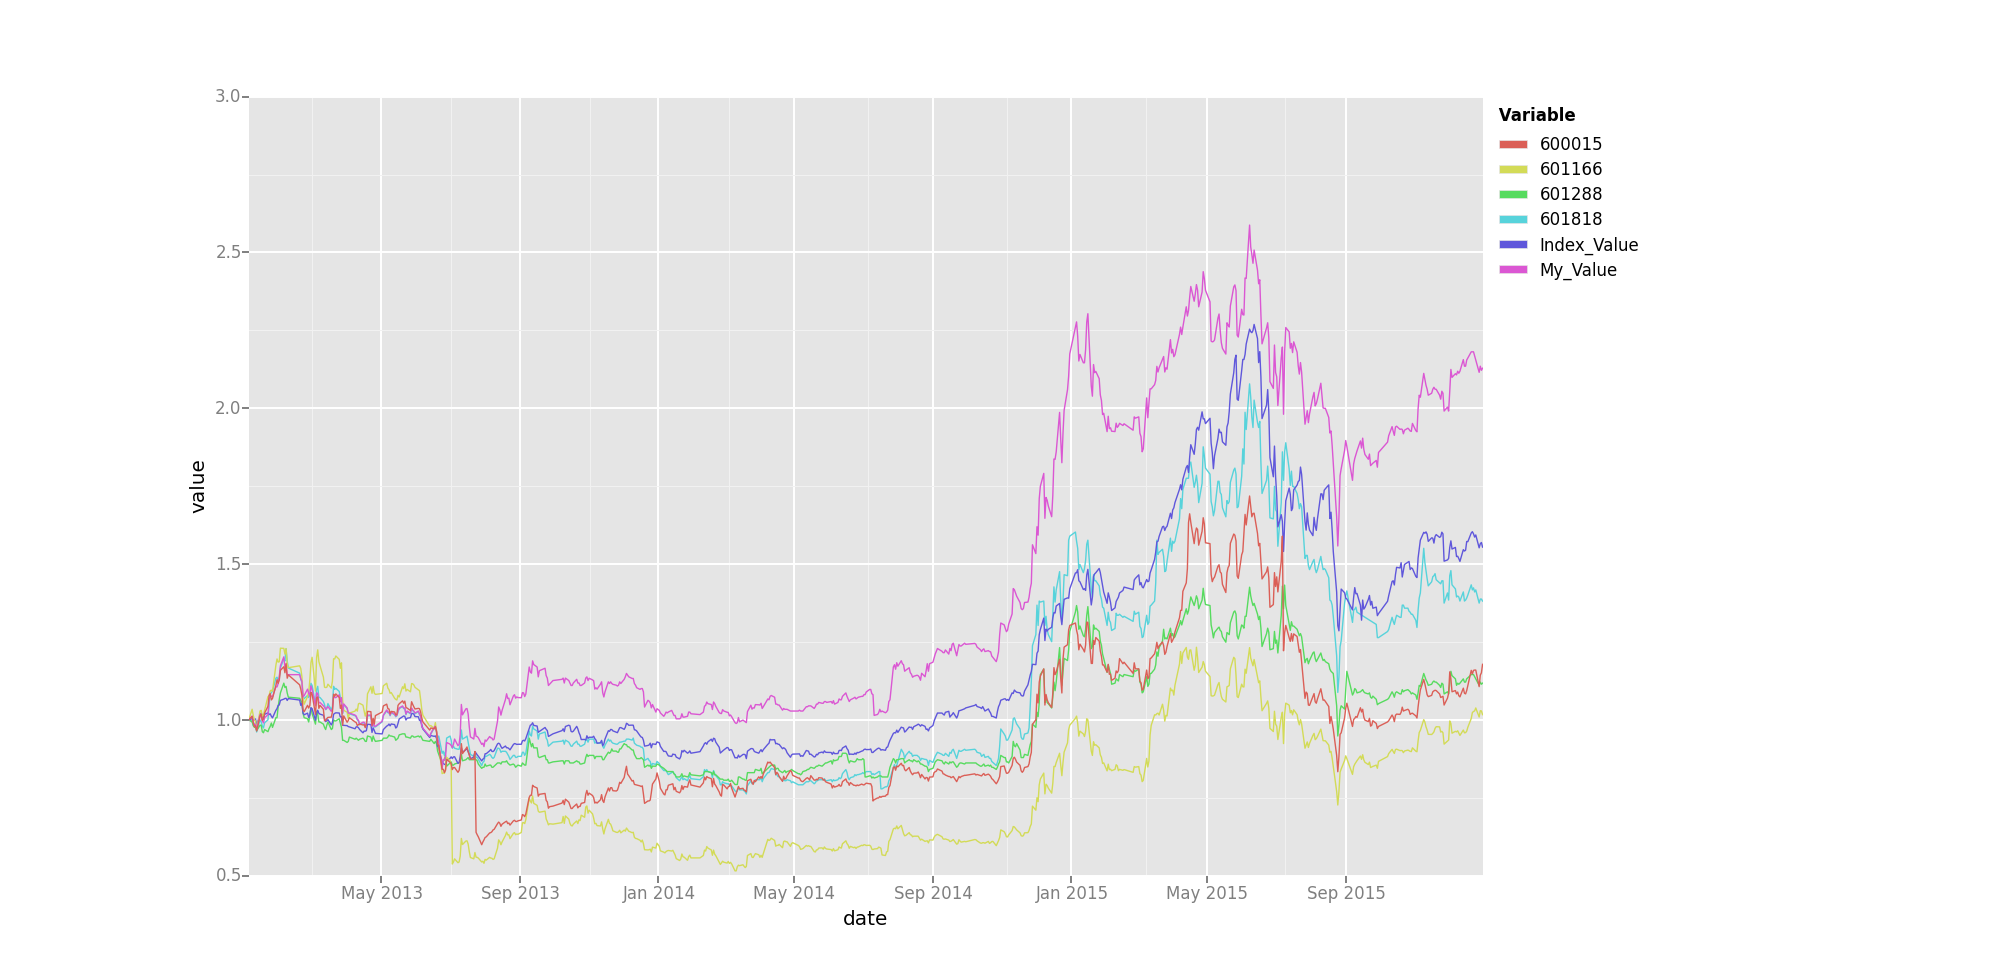
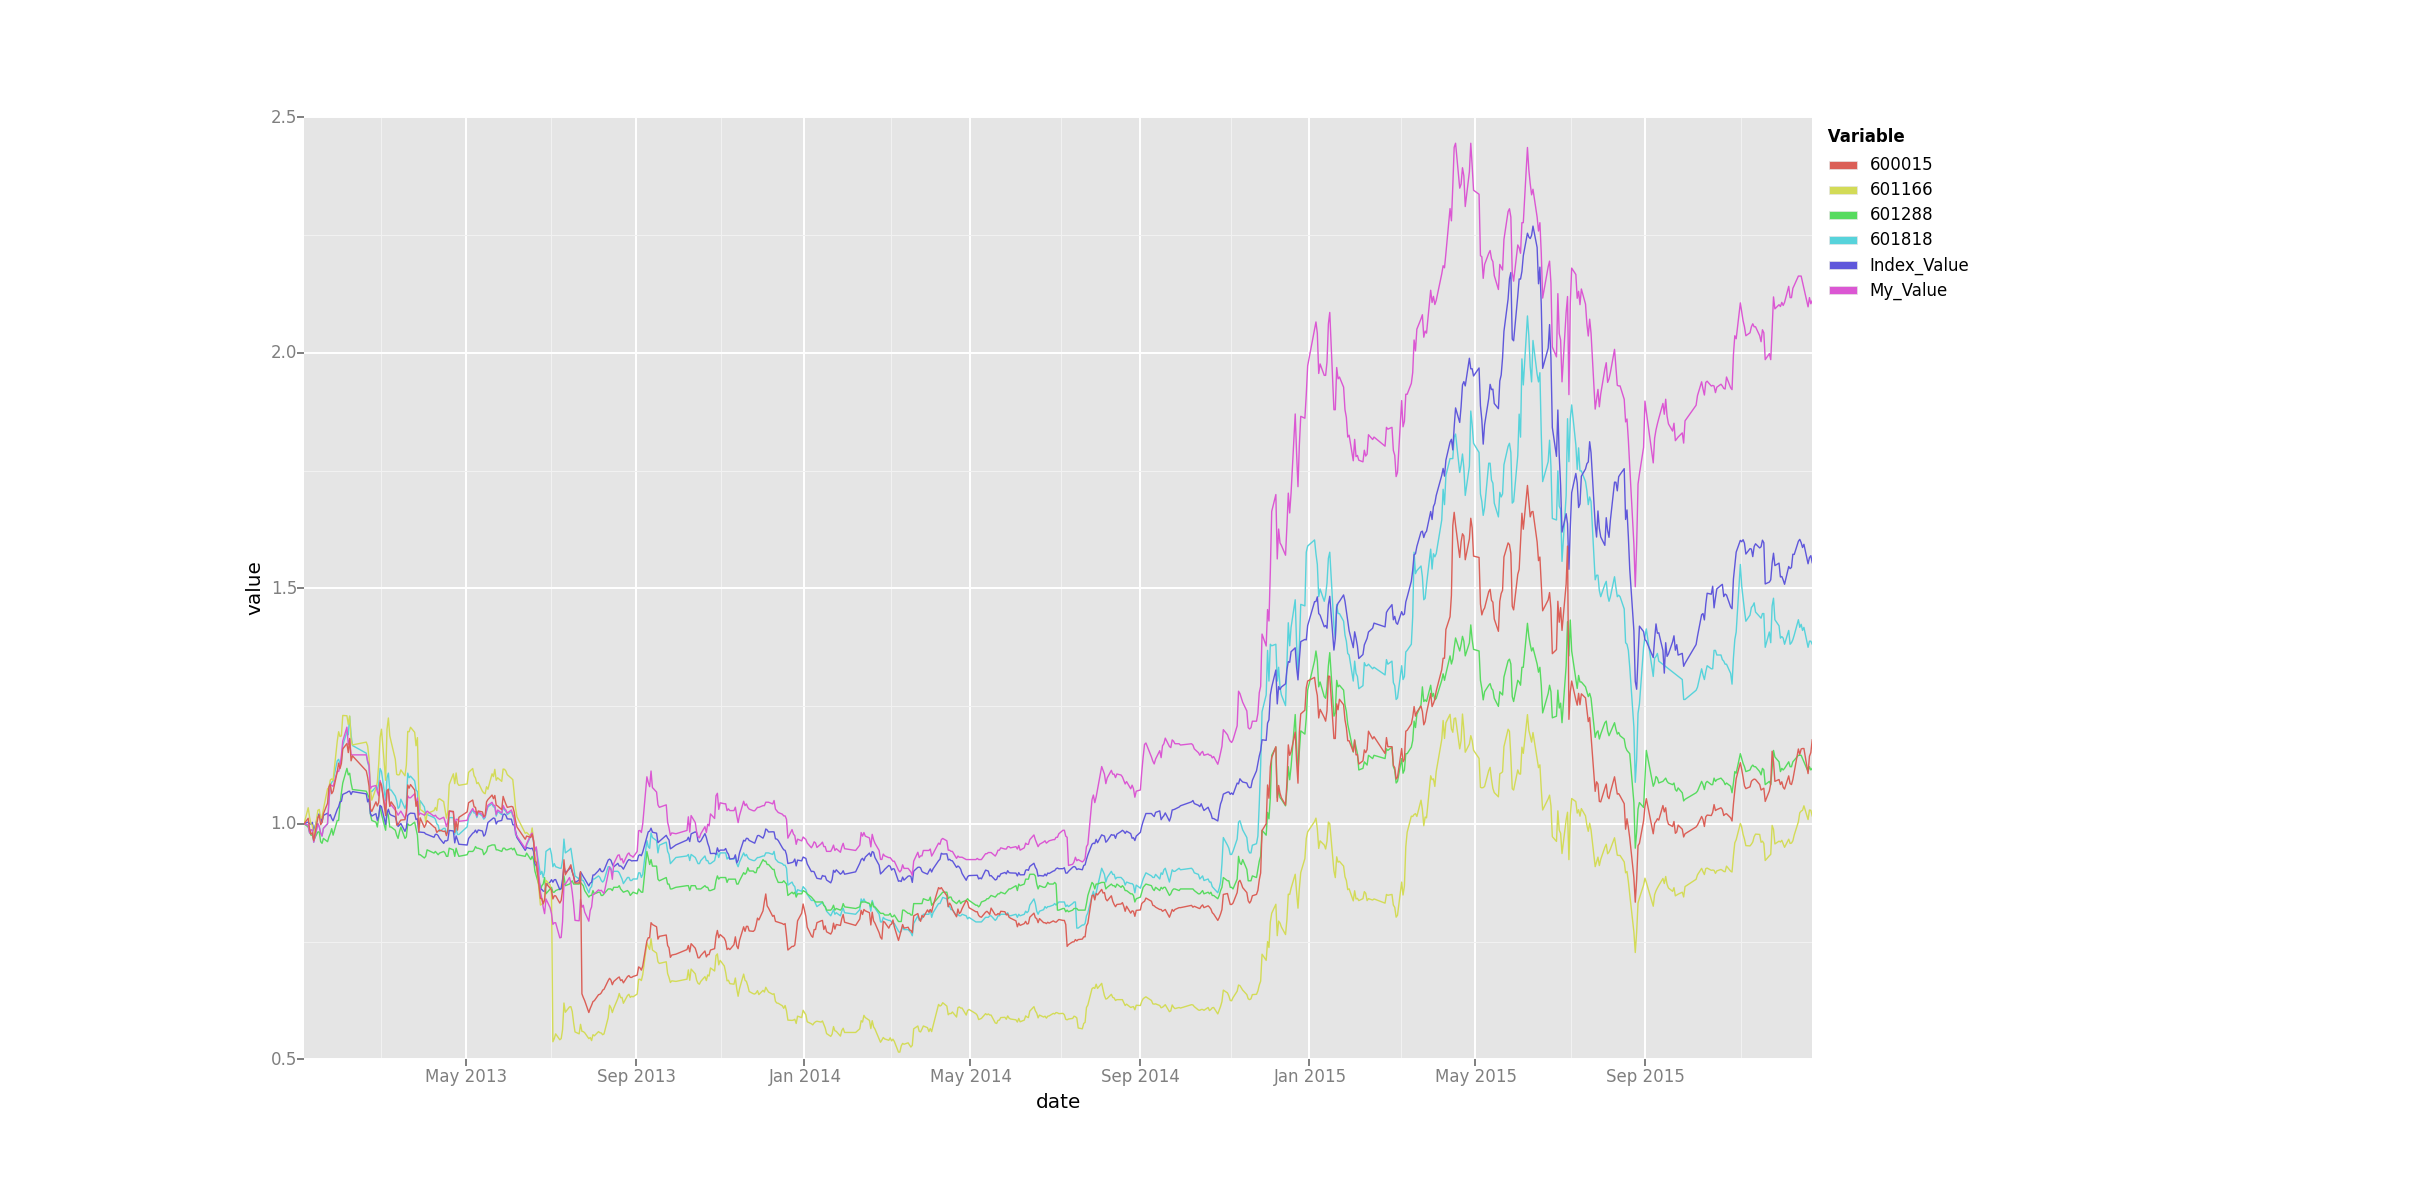
update

diff --git a/roll.py b/roll.py
@@ -3,7 +3,7 @@ import tushare as ts
 import pandas as pd
 import math
 from ggplot import *
-import datetime
+import time
 
 banks = ["600000","002142","600036","601998","601169","601166","601009","000001","601398","601988","601818","601328","601939","601288","600015","600016"]
 
@@ -26,7 +26,6 @@ def getIndex():
     #获取上证指数保存到本地
     df = ts.get_hist_data('sh')
     df.to_csv('sh',sep=',', encoding='utf-8')
-
 
 def fixROE(df,season):
     #修改新浪财经的roe数据
@@ -52,120 +51,6 @@ def concatData():
 
     last_df = last_df.iloc[::-1]
     last_df.to_csv('prices.csv',sep=',', encoding='utf-8')
-
-
-def calculate_report():
-    report_dfs = []
-    report_dates = []
-    for year in range(2012,2016):
-        for season in range(1,5):
-            if (year == 2015 and season == 4) or (year == 2012 and (season == 1 or season == 2)):
-                continue
-            filename = "reportData/" + str(year) + '-' + str(season)
-            df = pd.read_csv(filename,sep=',', encoding='utf-8',dtype={'code': str})
-            #过滤银行股
-            df = df[df['code'].isin(banks)]
-            #修正roe
-            df = fixROE(df,season)
-
-            df.set_index(['code'], inplace = True)
-
-            #报告日期生成
-            fix_year = year
-            if season == 4:
-                fix_year = year + 1
-            df['report_date'] = str(fix_year) + '-' + df['report_date']
-            df['report_date'] = pd.to_datetime(df['report_date'])
-            if season == 4:
-                df['report_date'] = df['report_date'] - pd.Timedelta(days = 30)
-            max_date = df['report_date'].max()
-            report_dates.append(max_date)
-            report_dfs.append(df)
-    return (report_dfs,report_dates)
-
-def calculate_diverse():
-    diverse_dfs = []
-    for bank in banks:
-        file_name = "diverseData/" + bank + "_0.csv"
-        diverse_df = pd.read_csv(file_name,sep=',', encoding='utf-8')
-        diverse_df['code'] = bank
-        diverse_dfs.append(diverse_df)
-    df = pd.concat(diverse_dfs)
-    df = df.drop(df.columns[[1,5,6,7]],1)
-    names = list(df.columns.values)
-    df = df.rename(columns = {names[0]:'date',names[1]:'bonus',names[2]:'accum',names[3]:'inst'})
-    df['date'] = pd.to_datetime(df['date'])
-    df = df.sort(['date'])
-    return df
-
-def generate_df_from(from_date,to_date,report_df,diverse_df):
-    diverse_df = diverse_df[(diverse_df['date'] >= from_date) & (diverse_df['date'] < to_date)]
-    new_dfs = [report_df.copy()]
-    new_dates = [from_date]
-    df = report_df    
-    for index, row in diverse_df.iterrows():
-        code = row['code']
-        inst_tax = safe_cast(row['inst'], float, 0.0)/100.0
-        bonus_tax = safe_cast(row['bonus'], float, 0.0)/100.0
-        df['bvps'][code] = df['bvps'][code] - inst_tax - bonus_tax
-        new_dfs.append(df.copy())
-        new_dates.append(row['date'])
-    return new_dfs,new_dates
-
-def mix_report_diverse(reports,diverse_df):
-    report_dfs,report_dates = reports
-    mixed_dfs = []
-    mixed_dates = []
-    date = report_dates[0]
-    for i in range(0,len(report_dates)):
-        next_date =  (datetime.date.today() if (i == len(report_dates) - 1) else report_dates[i + 1])
-        report_df = report_dfs[i]
-        new_dfs,new_dates = generate_df_from(date,next_date,report_df,diverse_df)
-        mixed_dfs = mixed_dfs + new_dfs
-        mixed_dates = mixed_dates + new_dates
-        date = next_date   
-    return mixed_dfs,mixed_dates 
-
-
-def calculateData():
-    
-    #准备财报数据
-    reports = calculate_report()
-
-    #准备分红数据
-    diverse_df = calculate_diverse()
-    report_dfs,report_dates = mix_report_diverse(reports,diverse_df)
-
-    #遍历每一天计算翻倍率
-    df = pd.read_csv('prices.csv',sep=',', encoding='utf-8')
-    df['date'] = pd.to_datetime(df['date'])
-
-    codes = []
-    current_date_index = 0
-    for index, row in df.iterrows():
-        #根据交易日获取最近的报告，分析出排名，选择持仓股
-        current_report_date = report_dates[current_date_index]
-
-        report_df = pd.DataFrame([])
-        if current_date_index == len(report_dates) - 1:
-            report_df = report_dfs[-1]
-        else:
-            if row['date'] >= current_report_date:
-                current_date_index = current_date_index + 1
-            report_df = report_dfs[current_date_index]
-        ranks = []
-        for code_index, report_row in report_df.iterrows():
-            code = code_index
-            price = row[code]
-            rank = math.log(price * 2 / report_row['bvps'],1 + report_row['roe']/100)
-            rank = 1/(1 + report_row['roe'])
-            ranks.append(rank)
-        report_df['rank'] = ranks
-        report_df = report_df.sort(['rank'])
-        codes.append(list(report_df.index)[0])
-    df['code'] = codes
-    df.to_csv('hold.csv',sep=',', encoding='utf-8')    
-
 
 def getPriceFrom(df,code,date):
     df = df[df['date'] == date]
@@ -228,7 +113,146 @@ def trade():
     plot = ggplot(df,aes(x = "date", y = "value",color = "variable")) + geom_line(),
     print plot
 
-trade()
+
+def calculate_report():
+    report_dfs = []
+    report_dates = []
+    for year in range(2012,2016):
+        for season in range(1,5):
+            if (year == 2015 and season == 4) or (year == 2012 and (season == 1 or season == 2)):
+                continue
+            filename = "reportData/" + str(year) + '-' + str(season)
+            df = pd.read_csv(filename,sep=',', encoding='utf-8',dtype={'code': str})
+            #过滤银行股
+            df = df[df['code'].isin(banks)]
+            #修正roe
+            df = fixROE(df,season)
+
+            df.set_index(['code'], inplace = True)
+
+            #报告日期生成
+            fix_year = year
+            if season == 4:
+                fix_year = year + 1
+            df['report_date'] = str(fix_year) + '-' + df['report_date']
+            df['report_date'] = pd.to_datetime(df['report_date'])
+            if season == 4:
+                df['report_date'] = df['report_date'] - pd.Timedelta(days = 30)
+            max_date = df['report_date'].max()
+            report_dates.append(max_date)
+            report_dfs.append(df)
+    return (report_dfs,report_dates)
+
+def calculate_diverse():
+    diverse_dfs = []
+    for bank in banks:
+        file_name = "diverseData/" + bank + "_0.csv"
+        diverse_df = pd.read_csv(file_name,sep=',', encoding='utf-8')
+        diverse_df['code'] = bank
+        diverse_dfs.append(diverse_df)
+    df = pd.concat(diverse_dfs)
+    df = df.drop(df.columns[[1,5,6,7]],1)
+    names = list(df.columns.values)
+    df = df.rename(columns = {names[0]:'date',names[1]:'bonus',names[2]:'accum',names[3]:'inst'})
+    df['date'] = pd.to_datetime(df['date'])
+    df = df.sort(['date'])
+    return df
+
+def generate_df_from(from_date,to_date,report_df,diverse_df):
+    diverse_df = diverse_df[(diverse_df['date'] >= from_date) & (diverse_df['date'] < to_date)]
+    new_dfs = [report_df.copy()]
+    new_dates = [from_date]
+    df = report_df    
+    
+    for index, row in diverse_df.iterrows():
+        code = row['code']
+        inst_tax = safe_cast(row['inst'], float, 0.0)/97.0 
+        bonus_tax = safe_cast(row['bonus'], float, 0.0)/100.0 
+        df['bvps'][code] = df['bvps'][code] - inst_tax - bonus_tax
+        new_dfs.append(df.copy())
+        new_dates.append(row['date'])
+    return new_dfs,new_dates
+
+def mix_report_diverse(reports,diverse_df):
+    report_dfs,report_dates = reports
+    mixed_dfs = []
+    mixed_dates = []
+    date = report_dates[0]
+    for i in range(0,len(report_dates)):
+        next_date =  (pd.Timestamp('2016-01-01') if (i == len(report_dates) - 1) else report_dates[i + 1])
+        report_df = report_dfs[i]
+        new_dfs,new_dates = generate_df_from(date,next_date,report_df,diverse_df)
+        mixed_dfs = mixed_dfs + new_dfs
+        mixed_dates = mixed_dates + new_dates
+        date = next_date  
+    return mixed_dfs,mixed_dates 
+
+
+def calculateData():
+    
+    #准备财报数据
+    reports = calculate_report()
+
+    #准备分红数据
+    diverse_df = calculate_diverse()
+    report_dfs,report_dates = mix_report_diverse(reports,diverse_df)
+
+    report_dfs_,report_dates_ = calculate_report()
+    current_date_index_ = 0
+    report_dates_.append(pd.Timestamp('2016-01-01'))
+
+    #遍历每一天计算翻倍率
+    df = pd.read_csv('prices.csv',sep=',', encoding='utf-8')
+    df['date'] = pd.to_datetime(df['date'])
+
+    codes = []
+    current_date_index = 0
+    report_dates.append(pd.Timestamp('2016-01-01'))
+    for index, row in df.iterrows():
+
+        #根据交易日获取最近的报告，分析出排名，选择持仓股
+        current_report_date = report_dates[current_date_index + 1]
+
+        report_df = report_dfs[current_date_index]
+        if row['date'] >= current_report_date:
+            current_date_index = current_date_index + 1
+
+        ranks = []
+        for code_index, report_row in report_df.iterrows():
+            code = code_index
+            price = row[code]
+            rank = math.log(price * 2 / report_row['bvps'],1 + report_row['roe']/100)
+            ranks.append(rank)
+        report_df['rank'] = ranks
+
+        current_report_date_ = report_dates_[current_date_index_ + 1]
+        report_df_ = report_dfs_[current_date_index_]
+        if row['date'] >= current_report_date_:
+            current_date_index_ = current_date_index_ + 1
+        ranks_ = []
+        for code_index, report_row in report_df_.iterrows():
+            code = code_index
+            price = row[code]
+            rank = math.log(price * 2 / report_row['bvps'],1 + report_row['roe']/100)
+            ranks_.append(rank)
+        report_df_['rank'] = ranks_ 
+        differs  = report_df['bvps'] - report_df_['bvps']
+ 
+        for differ in differs: 
+            if not differ == 0:
+                print "[Date]:" + str(row['date']) + "   report_date:" + str(report_dates_[current_date_index_]) + "   diverse_date:" + str(report_dates[current_date_index])
+                print "[Index] report:" +  str(current_date_index_) + "   diverse:" + str(current_date_index)
+                print report_df['bvps']
+                print report_df_['bvps']
+                print differs
+
+        report_df = report_df.sort(['rank'])
+        codes.append(list(report_df.index)[0])
+    df['code'] = codes
+    df.to_csv('hold.csv',sep=',', encoding='utf-8')    
+
+calculateData()
+
 
 # def calculateTradeModel():
 #     from_date = "2011-04-30"
